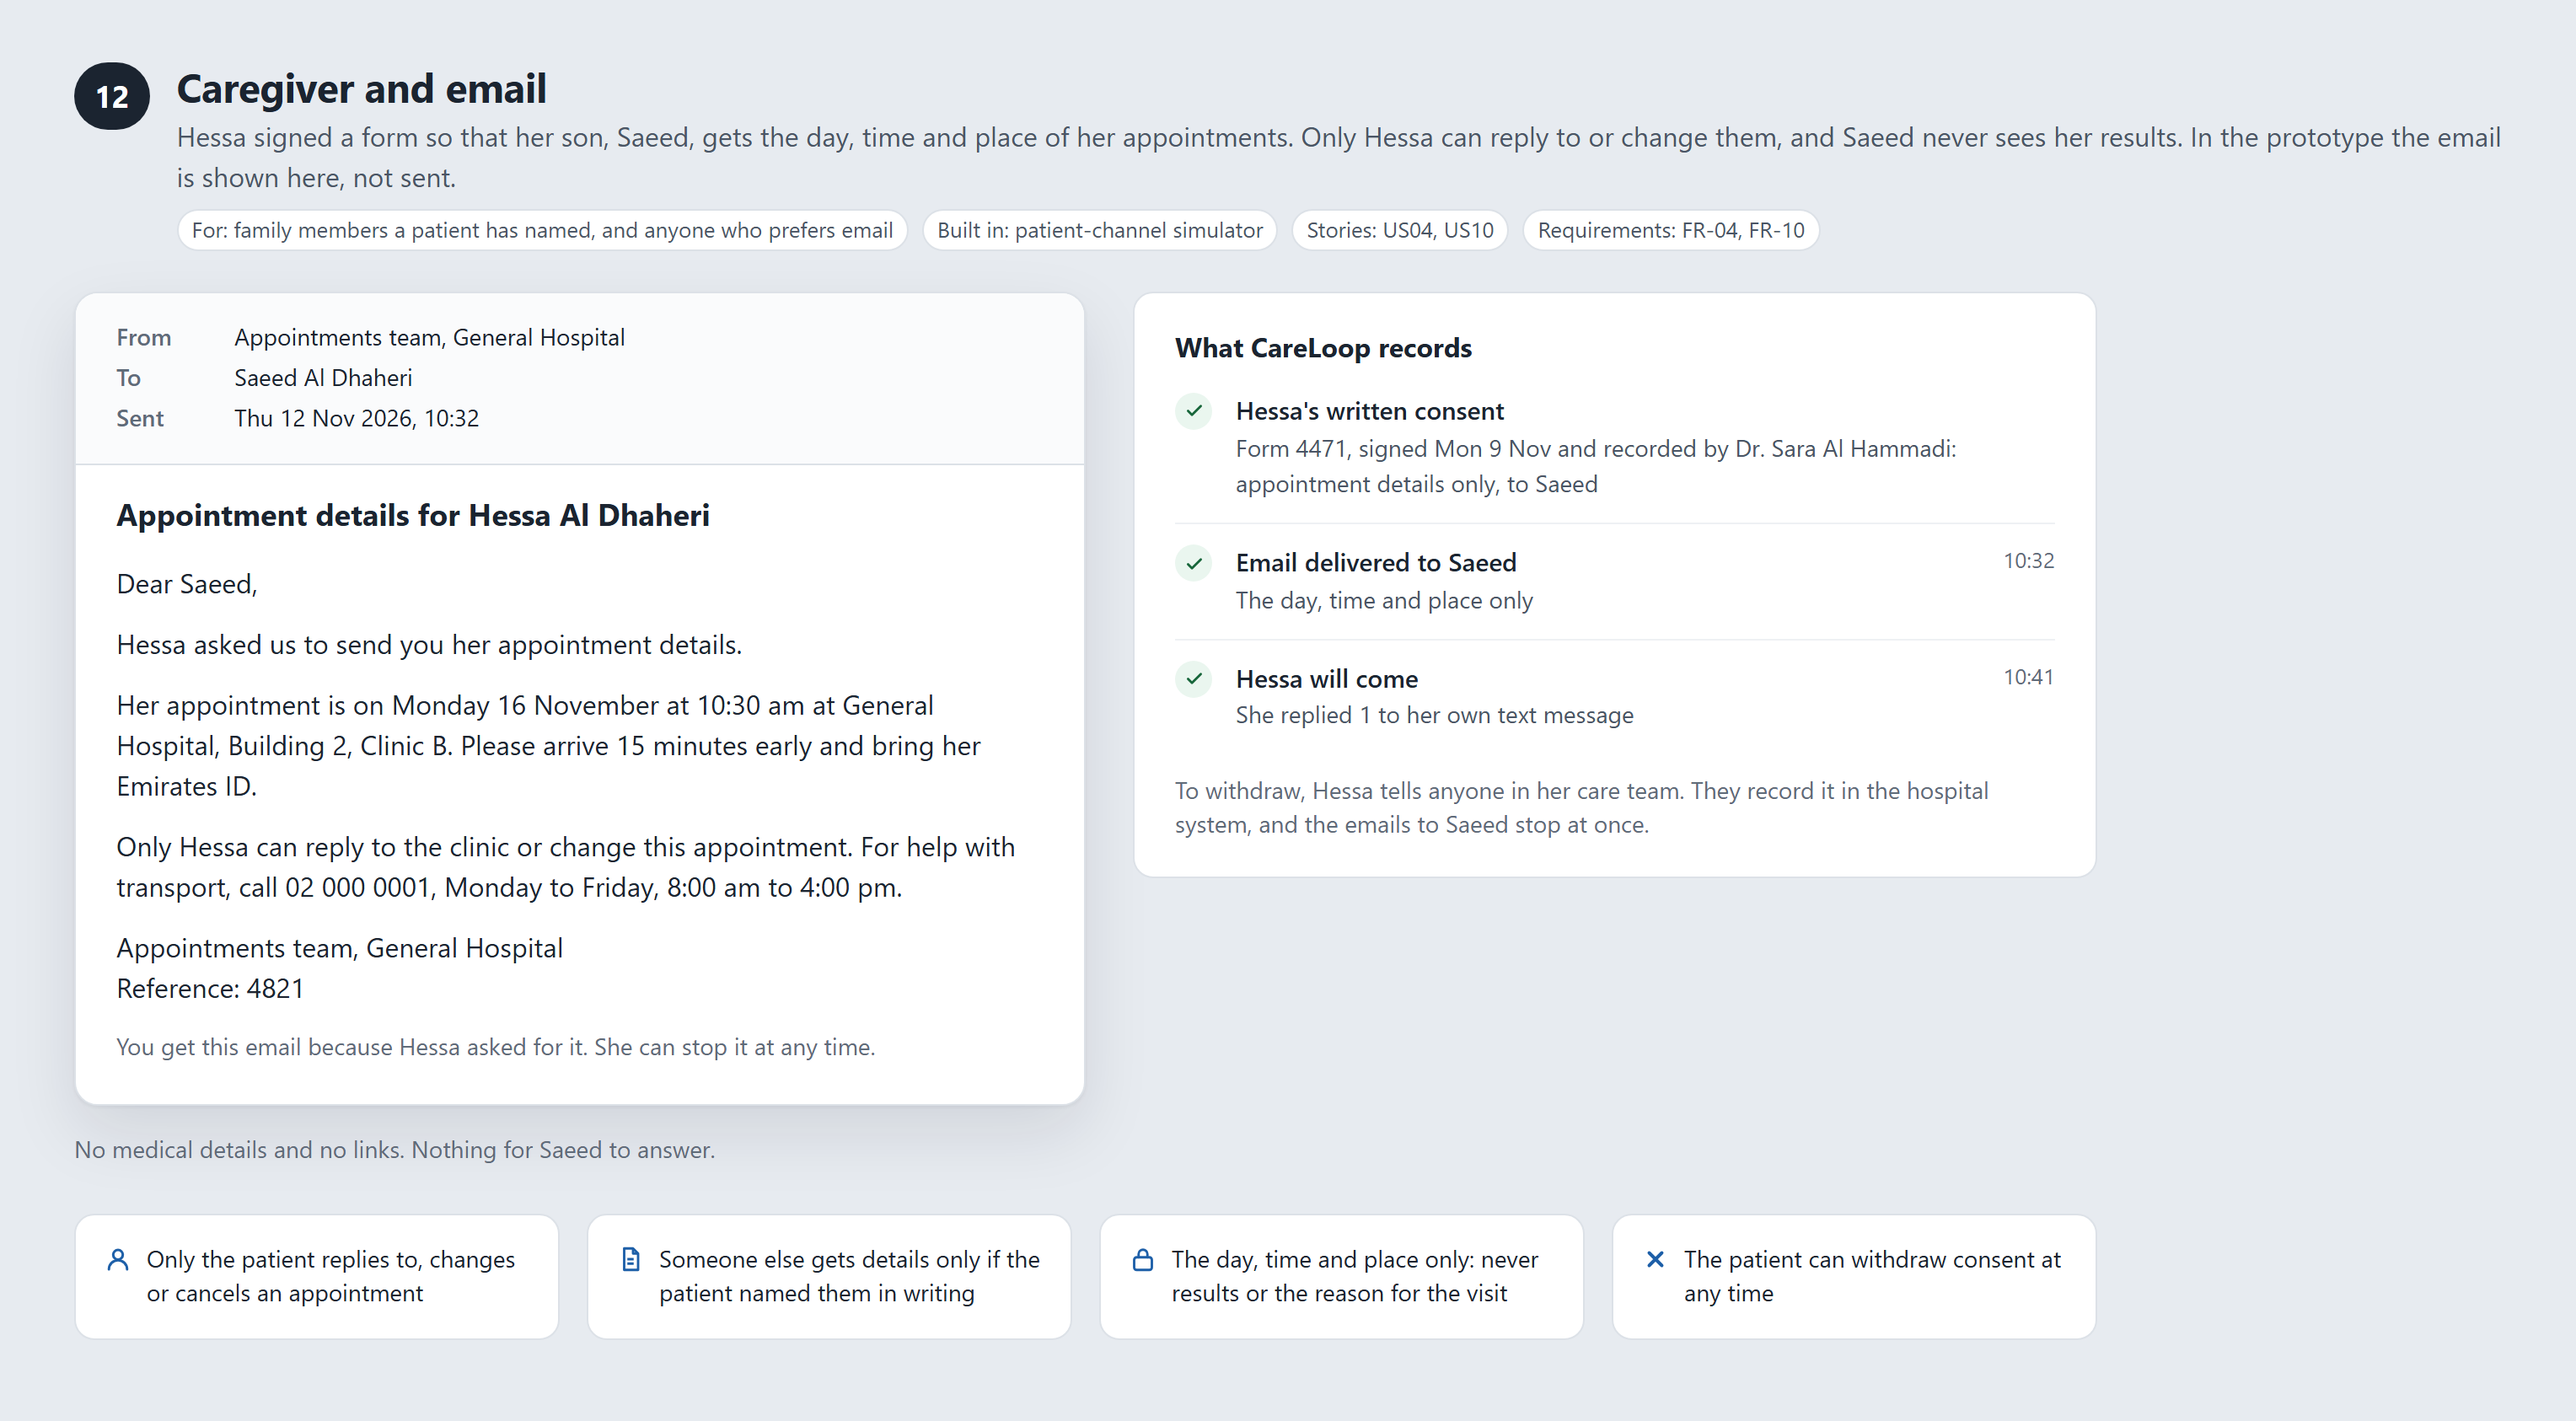
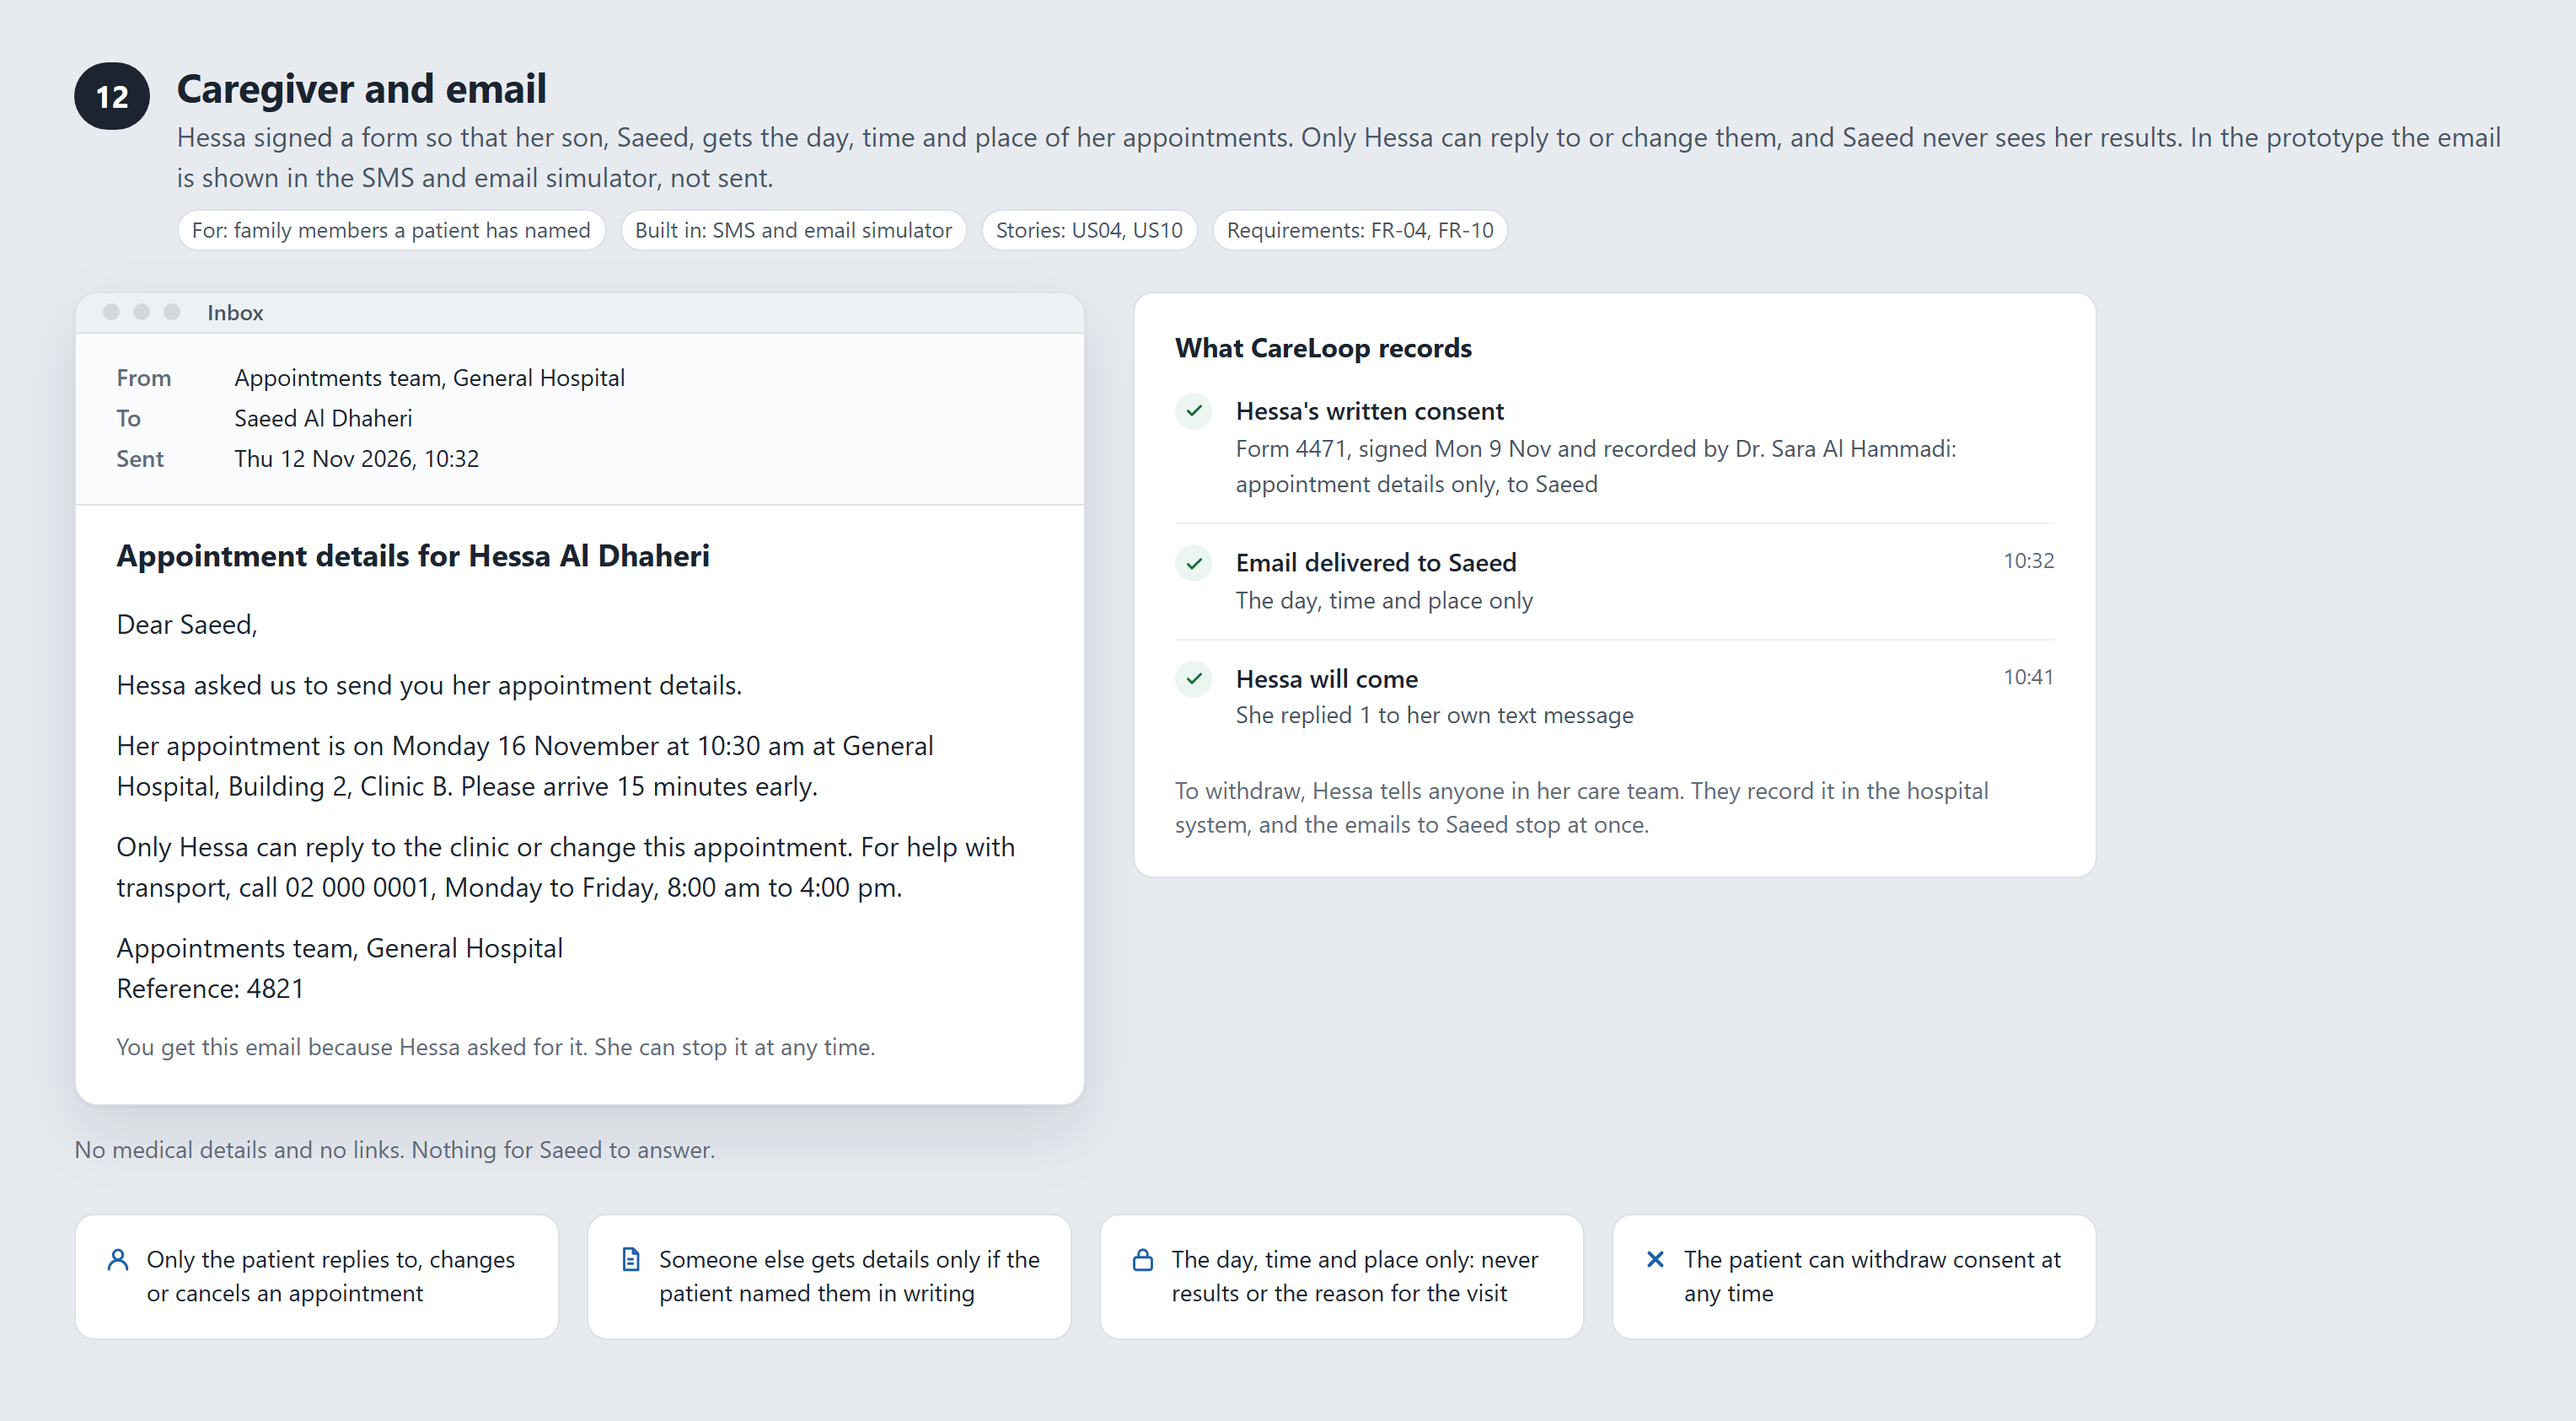
Keep the caregiver email to day, time and place
Saeed's email drops the Emirates ID line, so it carries only the day, time and place, a
number for help with transport and why he gets it. Screen 12 is for family members a
patient has named, and is shown in the SMS and email simulator.

Changed region(s): [[0.0311, 0.2159, 0.373, 0.586], [0.1243, 0.1234, 0.6839, 0.1851]]

diff --git a/docs/ui-design/README.md b/docs/ui-design/README.md
@@ -144,7 +144,7 @@ Where each screen is built:
 | 9 | [Basic phone, no internet](#9-basic-phone-no-internet) | Patients without a smartphone or internet | SMS and email simulator | US02, US03 | FR-04 | Shown |
 | 10 | [Patient email](#10-patient-email) | Patients reached by email | SMS and email simulator | US02, US03, US05 | FR-04 | Shown |
 | 11 | [Arabic, right to left](#11-arabic-right-to-left) | Arabic-speaking patients and families | SMS and email simulator | US02, US03 | FR-04 | Deferred |
-| 12 | [Caregiver and email](#12-caregiver-and-email) | Family members a patient has named, and email users | SMS and email simulator | US04, US10 | FR-04, FR-10 | Shown |
+| 12 | [Caregiver and email](#12-caregiver-and-email) | Family members a patient has named | SMS and email simulator | US04, US10 | FR-04, FR-10 | Shown |
 | 13 | [Empty and error states](#13-empty-and-error-states) | Everyone building or testing CareLoop | All components | US03, US13, US14, US15 | FR-01, FR-04, FR-07, FR-08, FR-11 | Reference |
 
 Hessa's journey:
@@ -291,6 +291,7 @@ Hessa's journey:
 
 - In scope (decision 7). Only the patient replies to the clinic or changes an appointment. A family member never does this for her, so the email asks for no reply and sends no event that changes the case.
 - Consent is a `Consent` on the case, recorded by `ConsentRecorded/Granted` with a reference to the signed form (C13). The family member is a recipient (`Caregiver`), not a user, and gets the day, time and place only, while consent is active: no results, no reason for the visit and no links (DoH Standard on Patient Healthcare Data Privacy, 4.2.3; Federal Law No. 2 of 2019, Article 16).
+- The email to Saeed carries the day, time and place, a number for help with transport, and why he gets it. Nothing in it is about her health.
 - Giving consent: the patient signs a form with her doctor, who records it in the hospital system (screen 15). CareLoop receives `ConsentRecorded/Granted` when her case opens; in the hackathon, the test scenario sends it.
 - Withdrawing consent: the patient tells anyone in her care team, who records it in the hospital system. That sends `ConsentRecorded/Withdrawn`, and the emails stop at once.
 - In the prototype, the email is shown in the SMS and email simulator, not sent. CareLoop records each email as a notification attempt.
